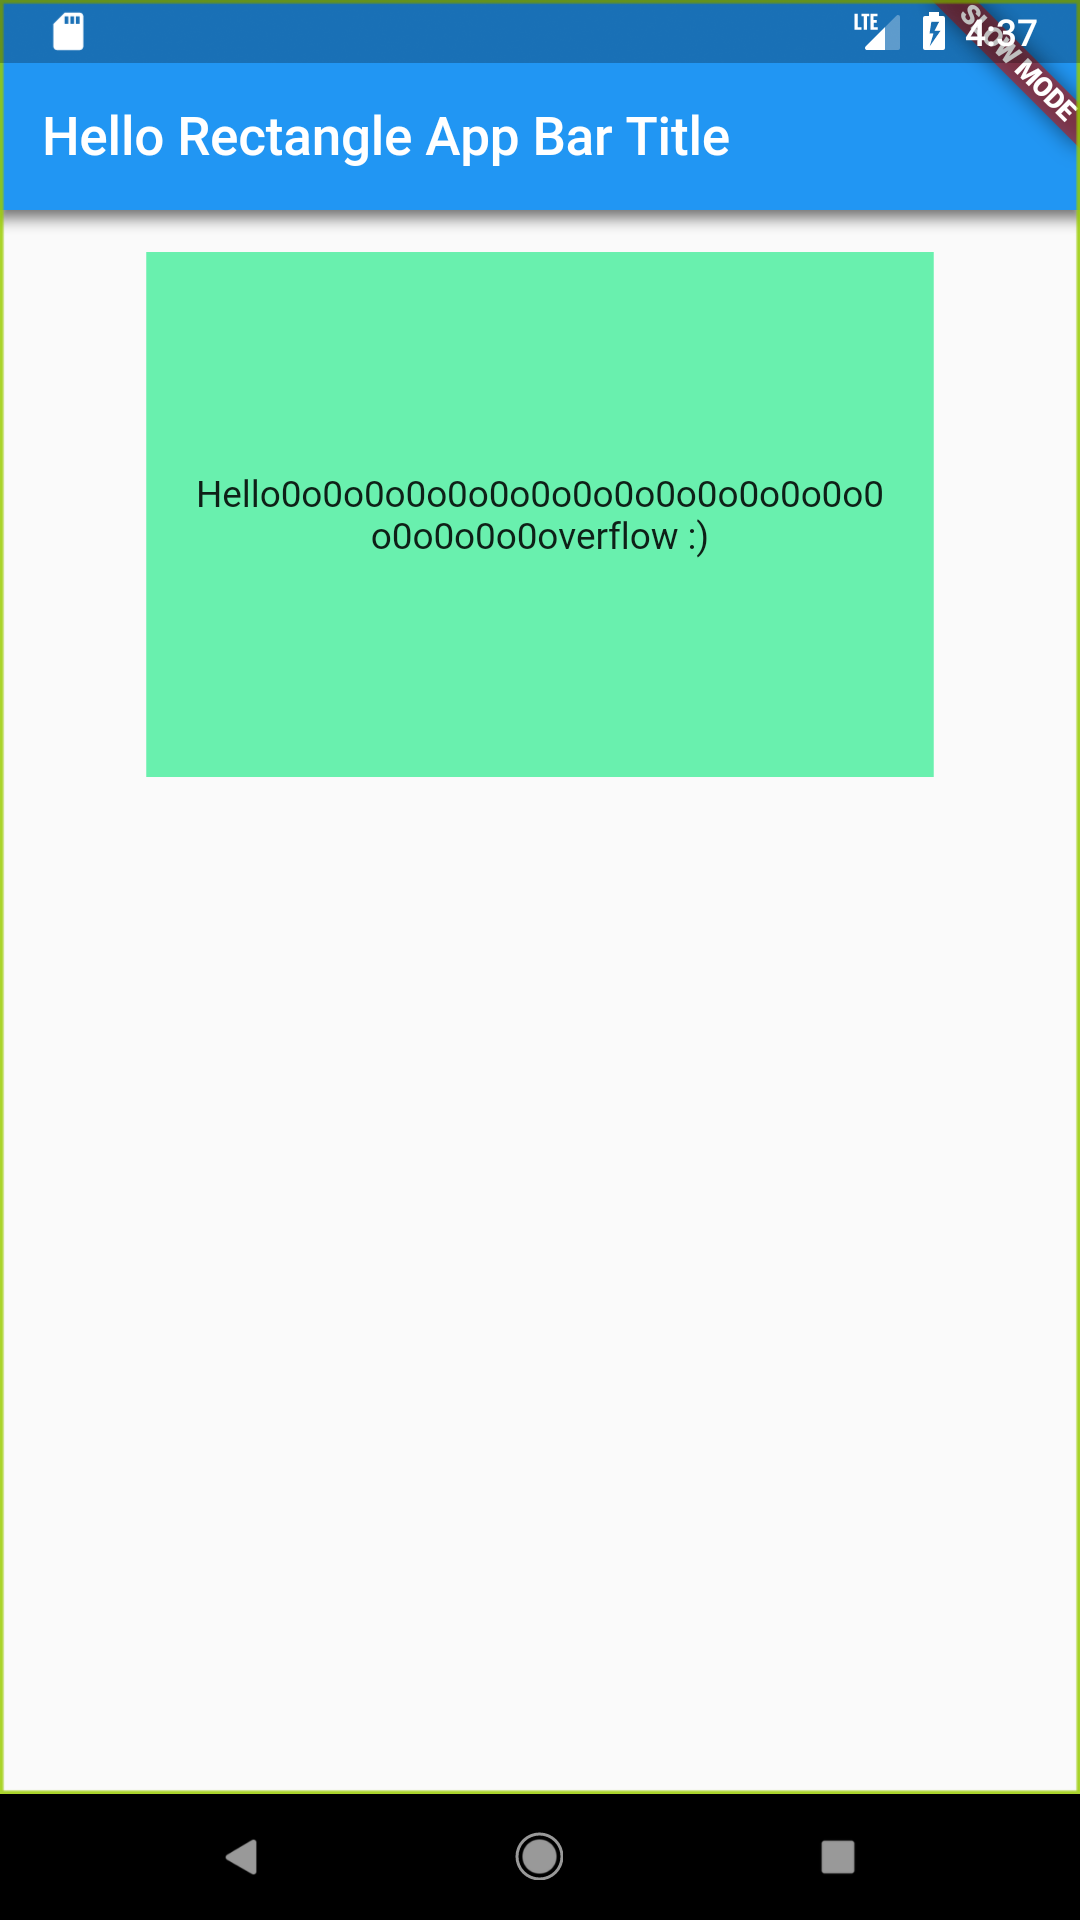
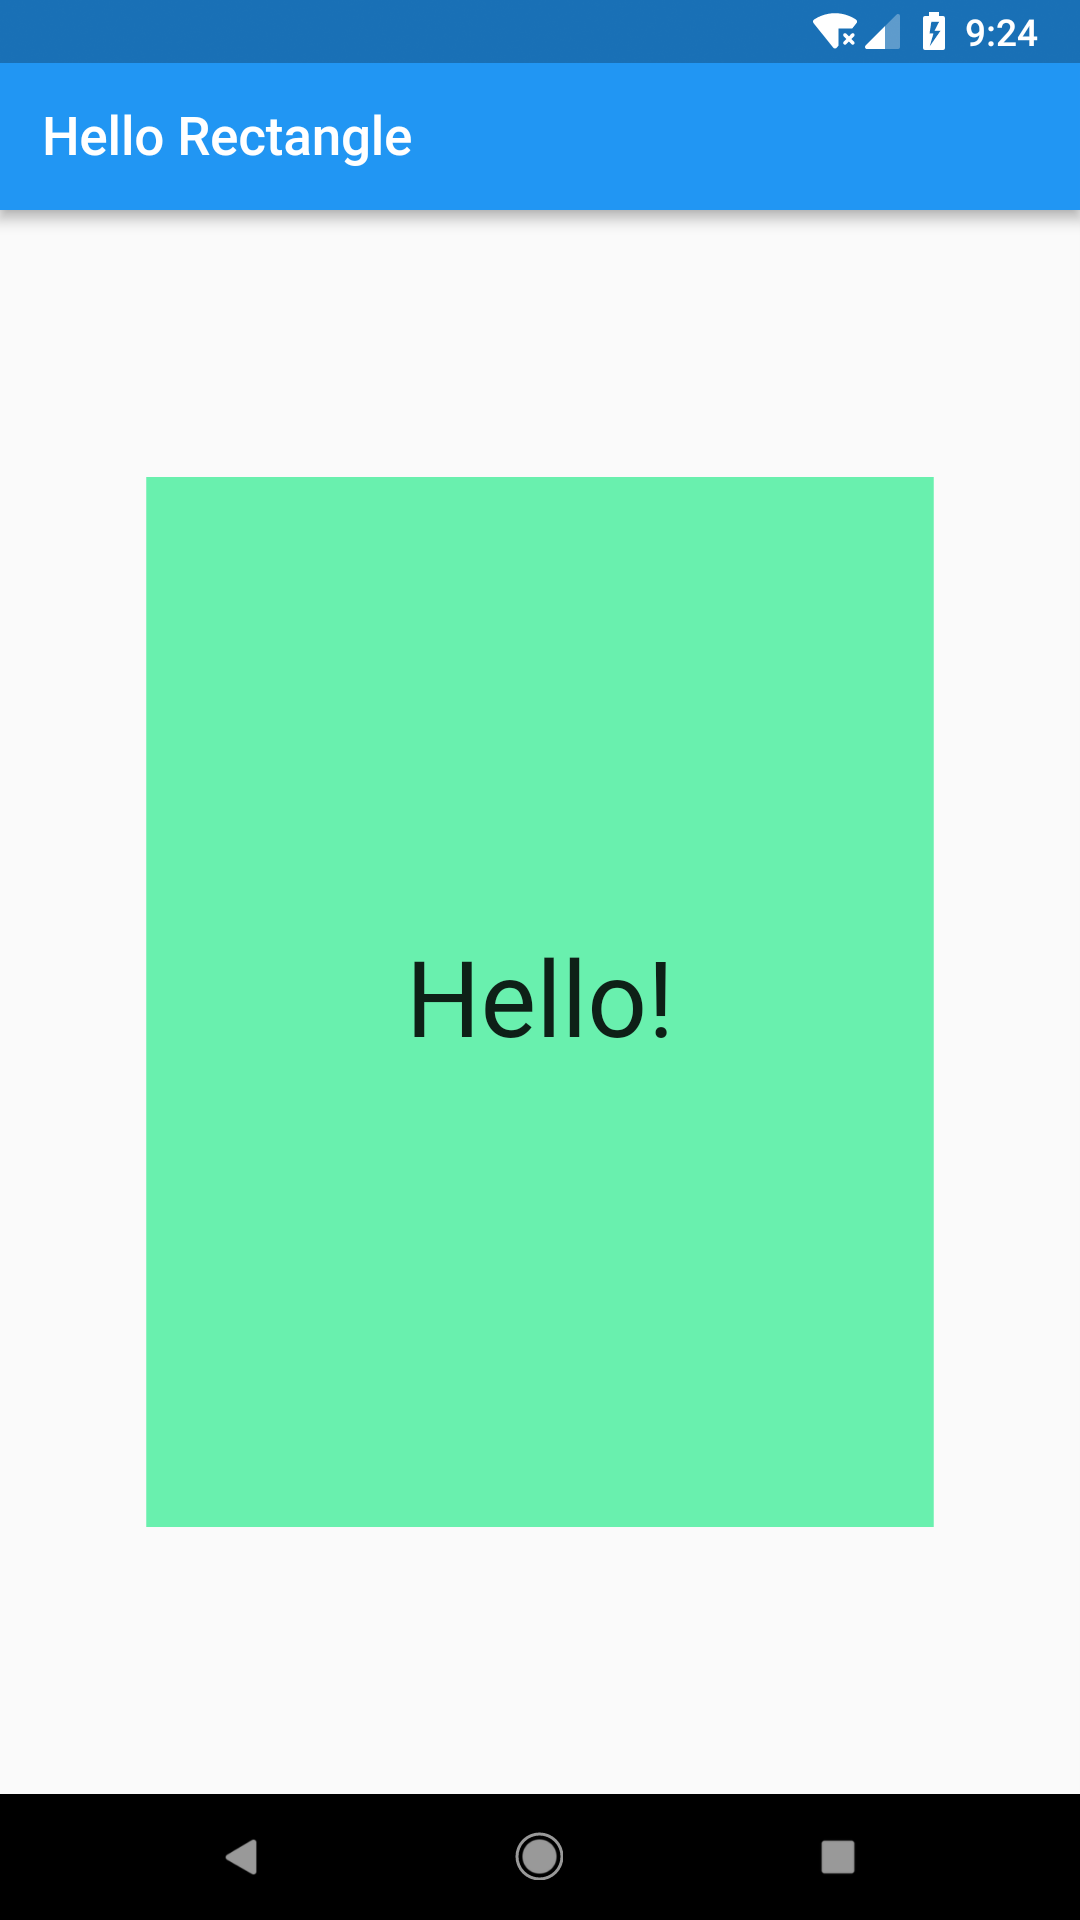
Update exercise 1 (#87)
* update course 1 to match video, better README

* update course 1 to match video, better READMe

* update title

* Update README.md

* add consistent punctuation for bullet points

diff --git a/course/01_hello_rectangle/solution_01_hello_rectangle/lib/main.dart b/course/01_hello_rectangle/solution_01_hello_rectangle/lib/main.dart
@@ -7,6 +7,8 @@ import 'package:flutter/material.dart';
 void main() {
   runApp(
     MaterialApp(
+      debugShowCheckedModeBanner: false,
+      title: 'Hello Rectangle',
       home: Scaffold(
         appBar: AppBar(
           title: Text('Hello Rectangle'),

diff --git a/course/01_hello_rectangle/solution_01_hello_rectangle/README.md b/course/01_hello_rectangle/solution_01_hello_rectangle/README.md
@@ -1,14 +1,21 @@
-# solution_01_hello_rectangle
+# Build a Hello Rectangle App
 
-This is the solution to the Hello Rectangle app.
+## Goals
+ - Verify you've set up Android Studio.
+ - Verify that the Flutter plugin has been installed.
+ - Run an app!
 
-Features:
- - App Bar has a title
- - App has a title
- - Colored rectangle is top-centered in the app
- - Text is centered in the Container widget
- - Text is center-aligned
- - 16.0 padding is added around the Container and Text widgets.
+## Steps
+ 1. Create an app. You can do this using `flutter create hello_rectangle` from the command line, or by going to File -> New -> New Flutter Project.
+ 2. Delete the contents of your app's `lib/main.dart`.
+ 3. Paste in the code from [lib/main.dart](lib/main.dart) into your app's `lib/main.dart`.
+ 4. Open your device or emulator, and build and launch the app. You can do all this using the green Play button in Android Studio. From the command line, you can also do `flutter run` inside your app's project directory.
+
+## Specs
+ - App has a title.
+ - App Bar has a title.
+ - Colored rectangle is centered in the app.
+ - Text is centered in the Container widget, and center-aligned.
 
 ## Screenshots
 <img src='../../screenshots/01_hello_rectangle.png' width='350'><img src='../../screenshots/01_hello_rectangle_2.png' width='350'>
